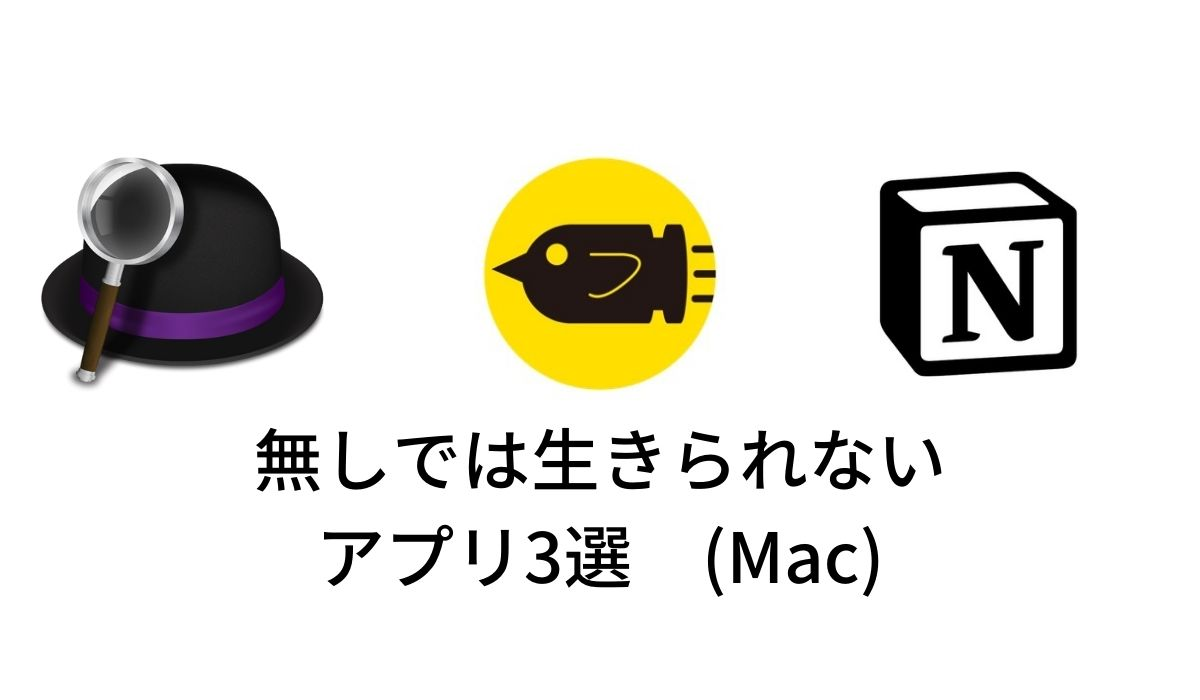
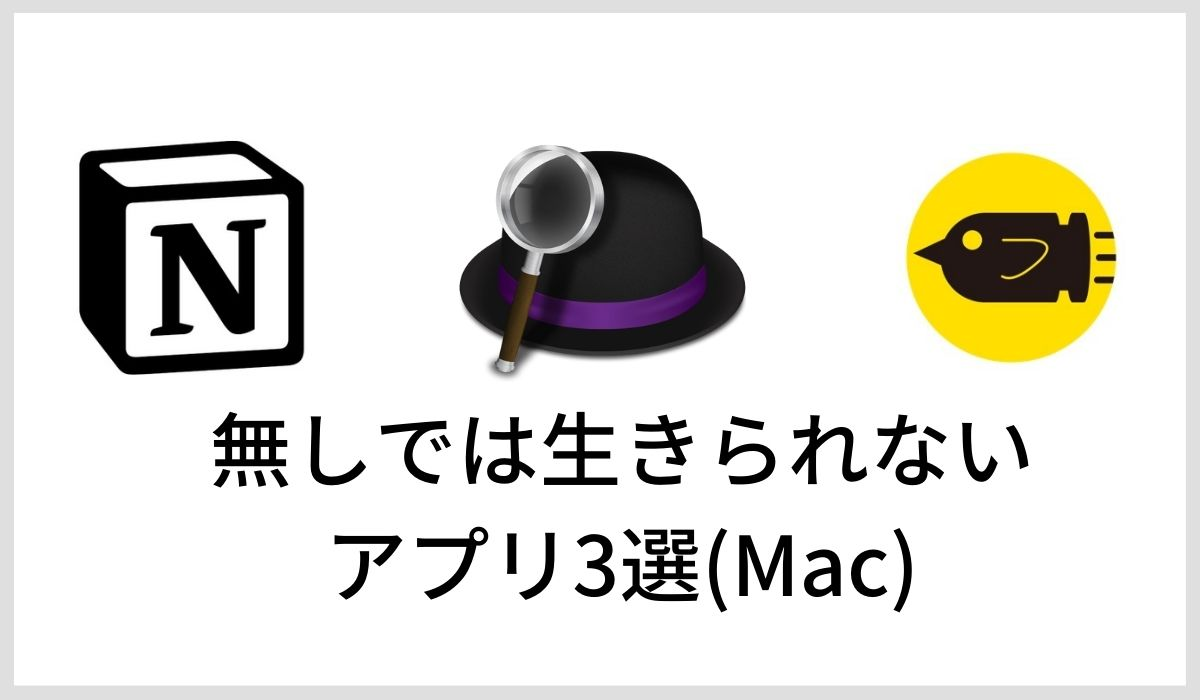
fixed the-best-apps

diff --git a/components/post-body.tsx b/components/post-body.tsx
@@ -14,7 +14,7 @@ const PostBody = ({ content }: Props) => {
     hljs.initHighlighting();
   }, []);
   return (
-    <div className="max-w-3xl mx-auto lg:prose-lg">
+    <div className="max-w-3xl mx-auto prose lg:prose-lg">
       <div
         className={markdownStyles["markdown"]}
         dangerouslySetInnerHTML={{ __html: content }}

diff --git a/components/cover-image.tsx b/components/cover-image.tsx
@@ -16,7 +16,7 @@ const CoverImage = ({ title, src, slug,width , height }: Props) => {
         src={src}
         width={width}
         height={height}
-        objectFit="cover"
+        objectFit="contain"
         alt={`Cover Image for ${title}`}
         className="rounded-lg"
       />

diff --git a/_posts/the-best-apps-for-mac.md b/_posts/the-best-apps-for-mac.md
@@ -1,7 +1,7 @@
 ---
-title: "Reactをシンプルに解説する"
-excerpt: "Next.jsでブログを作成しました！学習した技術や、読書のアウトプットに使用します！"
-coverImage: "/assets/blog/react/react.png"
+title: "無しでは生きられないアプリ3選"
+excerpt: "無しでは生きられないアプリを3つ紹介しました。無料のものもあるので是非インストールしてみて下さい！"
+coverImage: "/assets/blog/best-apps-for-mac/thumbnail.jpg"
 date: "2022-06-06"
 author:
   name: 泉原 遥輝 | Haruki Izumihara
